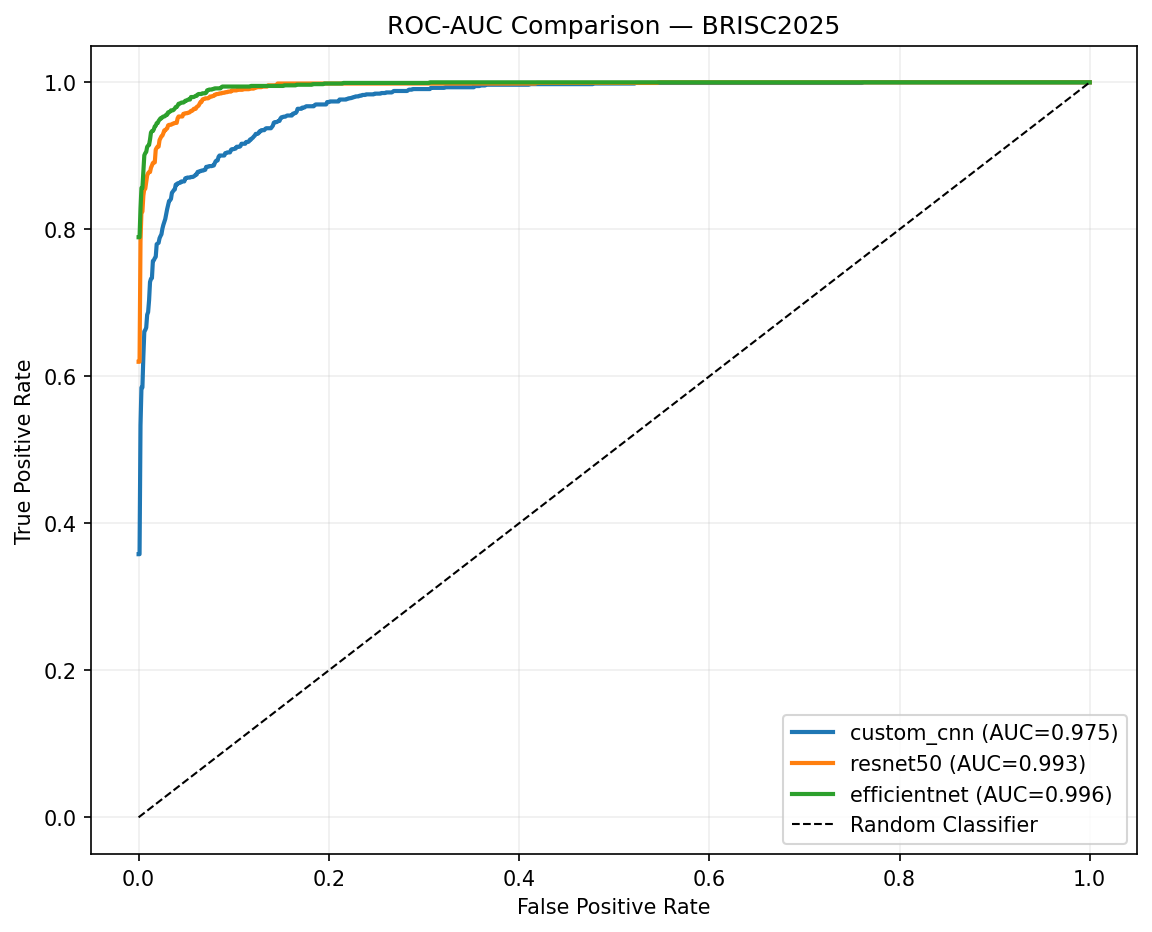
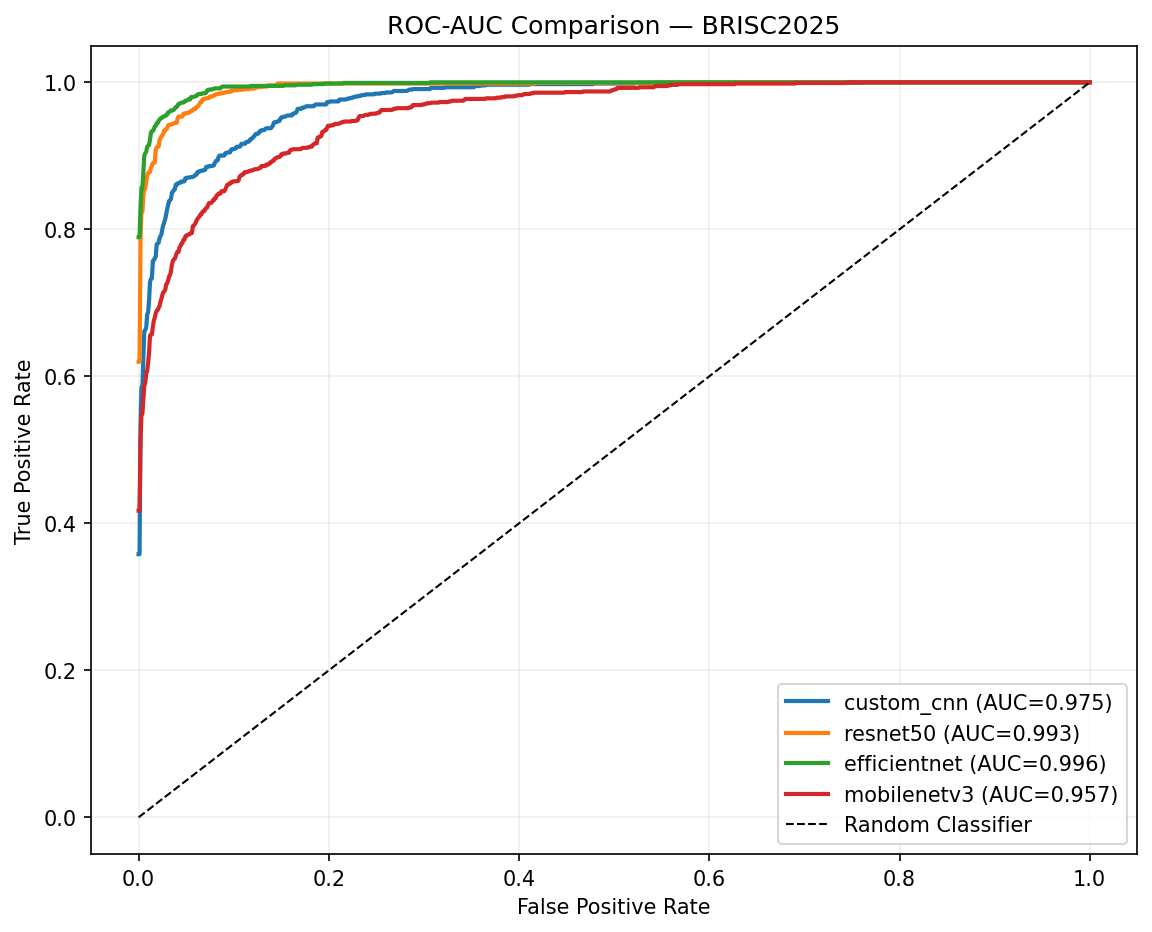
Update README and restore folders on GitHub

diff --git a/README.md b/README.md
@@ -62,6 +62,9 @@ python train.py --model resnet50 --epochs 30
 
 # EfficientNet-B3
 python train.py --model efficientnet --epochs 30
+
+#MobilNet
+python train.py --model mobilenetv3    
 ```
 Checkpoints saved to `models/<name>_best.pth`
 
@@ -70,6 +73,7 @@ Checkpoints saved to `models/<name>_best.pth`
 python eval.py --model custom_cnn
 python eval.py --model resnet50
 python eval.py --model efficientnet
+python eval.py --model mobilenetv3    
 python compare.py        # generates comparison chart
 ```
 Outputs saved to `outputs/`
@@ -92,8 +96,8 @@ brain_tumor_brisc/
 ├── outputs/                ← confusion matrices, ROC curves, summary CSV
 ├── config.py               ← all hyperparameters & paths
 ├── data_loader.py          ← BRISC2025 data pipeline
-├── model.py                ← CustomCNN / ResNet50 / EfficientNet
-├── train.py                ← training script (supports all 3 models)
+├── model.py                ← CustomCNN / ResNet50 / EfficientNet / MobileNet
+├── train.py                ← training script (supports all 4 models)
 ├── eval.py                 ← evaluation: accuracy, F1, AUC-ROC
 ├── compare.py              ← side-by-side model comparison chart
 ├── gradcam.py              ← Grad-CAM (works with all models)
@@ -114,10 +118,4 @@ This prevents catastrophic forgetting and converges faster than training from sc
 
 ---
 
-## Expected Results
 
-| Model | Params | Expected Val Acc |
-|---|---|---|
-| Custom CNN | ~26M | ~88–91% |
-| ResNet-50 | ~25M | ~93–96% |
-| EfficientNet-B3 | ~12M | ~94–97% |
